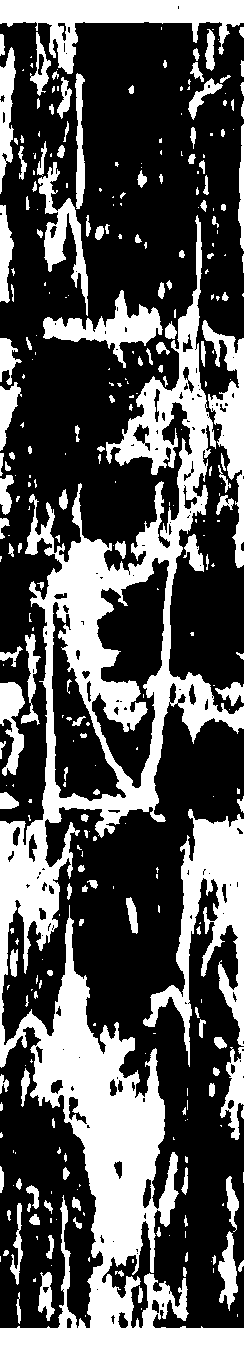
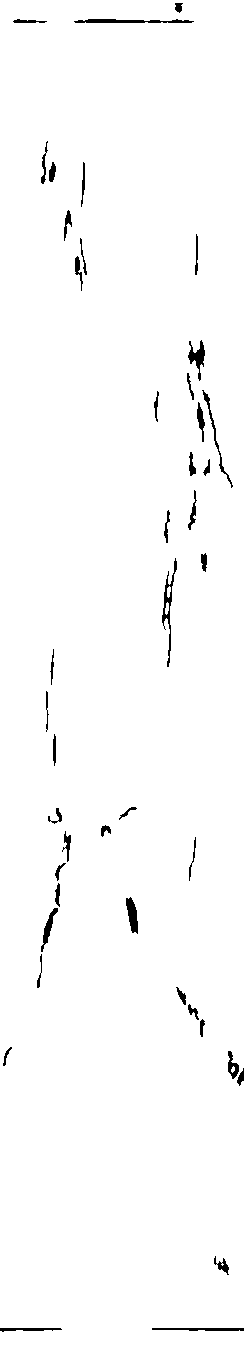
加入Frangi线状 同时加入形态学闭运算，按暗度和线状度选类

diff --git a/问题1代码/main.py b/问题1代码/main.py
@@ -5,13 +5,14 @@
 运行环境：
     conda activate huawei_c1
 
-主流程：
-    读取附件1图像
-    -> 中值滤波
-    -> 小波分解与去噪
-    -> K-means 像素聚类
-    -> 选择暗色线状类作为裂隙候选
-    -> 输出二值掩膜
+流程：
+    1. 中值滤波
+    2. 小波分解去噪
+    3. 计算 Frangi 暗线响应
+    4. 用前3张图拟合 K-means 模型
+    5. 在所有图上预测并选择裂隙类
+    6. 形态学闭运算 + 删除小连通域
+    7. 输出二值图
 """
 
 from pathlib import Path
@@ -19,29 +20,26 @@ from pathlib import Path
 import cv2
 import numpy as np
 import pywt
+from skimage import measure
+from skimage.filters import frangi
 from sklearn.cluster import KMeans
 from sklearn.preprocessing import StandardScaler
 
-
-# 路径配置：main.py 位于 D:/华为杯数学建模/问题1代码/
 CODE_DIR = Path(__file__).resolve().parent
 BASE_DIR = CODE_DIR.parent
-ATTACH1_DIR = (
-    BASE_DIR
-    / "2025年研究生数学建模竞赛赛题"
-    / "C题"
-    / "C题"
-    / "附件1"
-)
+ATTACH1_DIR = BASE_DIR / "2025年研究生数学建模竞赛赛题" / "C题" / "C题" / "附件1"
 OUTPUT_DIR = CODE_DIR / "output"
 OUTPUT_DIR.mkdir(exist_ok=True)
 
-# K-means 聚类数：通常取 3~5，便于区分暗裂隙、岩石背景、亮伪影等
-N_CLUSTERS = 3
+N_CLUSTERS = 4
+MIN_COMPONENT_AREA = 50
+MAX_FIT_SAMPLES = 200000
+MIN_LINE_LENGTH = 40
+MAX_LINE_WIDTH = 18
+CLOSE_KERNEL_SIZE = (3, 3)
 
 
-def read_gray(image_path: Path) -> np.ndarray:
-    """读取单通道灰度图像。"""
+def read_gray(image_path):
     data = np.fromfile(str(image_path), dtype=np.uint8)
     image = cv2.imdecode(data, cv2.IMREAD_GRAYSCALE)
     if image is None:
@@ -49,8 +47,7 @@ def read_gray(image_path: Path) -> np.ndarray:
     return image
 
 
-def write_image(image_path: Path, image: np.ndarray) -> None:
-    # Support Chinese path on Windows.
+def write_image(image_path, image):
     suffix = image_path.suffix or ".png"
     success, buffer = cv2.imencode(suffix, image)
     if not success:
@@ -58,39 +55,19 @@ def write_image(image_path: Path, image: np.ndarray) -> None:
     buffer.tofile(str(image_path))
 
 
-def median_filter(image: np.ndarray, kernel_size: int = 3) -> np.ndarray:
-    """中值滤波：去除孤立点噪声，同时尽量保留线状结构。"""
+def median_filter(image, kernel_size=3):
     kernel_size = int(kernel_size)
     if kernel_size % 2 == 0:
         kernel_size += 1
     return cv2.medianBlur(image, kernel_size)
 
 
-def wavelet_denoise(
-    image: np.ndarray,
-    wavelet: str = "db2",
-    level: int = 2,
-    mode: str = "soft",
-) -> np.ndarray:
-    """
-    小波分解去噪：对高频细节系数做软阈值收缩，压制纹理噪声。
-
-    Parameters
-    ----------
-    image : 二维灰度图
-    wavelet : 小波基
-    level : 分解层数
-    mode : 阈值模式，'soft' 或 'hard'
-    """
+def wavelet_denoise(image, wavelet="db2", level=2, mode="soft"):
     coeffs = pywt.wavedec2(image.astype(np.float32), wavelet, level=level)
     approx = coeffs[0]
-
-    # 用最细尺度的高频对角子带估计噪声标准差
     finest_hh = coeffs[-1][2]
     sigma = np.median(np.abs(finest_hh - np.median(finest_hh))) / 0.6745
     sigma = max(sigma, 1e-6)
-
-    # 通用阈值
     threshold = sigma * np.sqrt(2 * np.log(max(image.size, 2)))
 
     new_coeffs = [approx]
@@ -104,87 +81,140 @@ def wavelet_denoise(
         )
 
     reconstructed = pywt.waverec2(new_coeffs, wavelet)
-    # 逆变换尺寸可能与原图不同，裁剪回原始尺寸
     return reconstructed[: image.shape[0], : image.shape[1]]
 
 
-def build_pixel_features(image: np.ndarray) -> np.ndarray:
-    """
-    为每个像素构造聚类特征：
-    [灰度值, 局部均值, 局部方差]
-    """
+def frangi_response(image):
+    response = frangi(image, sigmas=range(1, 6, 2), black_ridges=True)
+    min_val = float(response.min())
+    max_val = float(response.max())
+    if max_val - min_val < 1e-6:
+        return np.zeros_like(response, dtype=np.float32)
+    return ((response - min_val) / (max_val - min_val)).astype(np.float32)
+
+
+def preprocess(image):
+    image_median = median_filter(image, kernel_size=3)
+    image_wavelet = wavelet_denoise(image_median, wavelet="db2", level=2)
+    image_preprocessed = np.clip(image_wavelet, 0, 255).astype(np.uint8)
+    image_frangi = frangi_response(image_preprocessed)
+    return image_preprocessed, image_frangi
+
+
+def build_pixel_features(image, frangi_norm):
     image_f = image.astype(np.float32)
     local_mean = cv2.blur(image_f, (5, 5))
     local_sq_mean = cv2.blur(image_f * image_f, (5, 5))
     local_var = local_sq_mean - local_mean * local_mean
-
-    features = np.stack(
-        [image_f, local_mean, local_var],
-        axis=-1,
-    ).reshape(-1, 3)
+    features = np.stack([image_f, local_mean, local_var, frangi_norm], axis=-1).reshape(-1, 4)
     return features
 
 
-def kmeans_segment(image: np.ndarray, n_clusters: int = N_CLUSTERS):
-    """
-    对预处理后的图像做 K-means 聚类，并返回裂隙候选掩膜。
+def postprocess_mask(mask):
+    mask = (mask > 0).astype(np.uint8)
+    kernel = cv2.getStructuringElement(cv2.MORPH_ELLIPSE, CLOSE_KERNEL_SIZE)
+    mask = cv2.morphologyEx(mask, cv2.MORPH_CLOSE, kernel)
 
-    选择平均灰度最低的类作为“裂隙候选”，因为裂隙在钻孔图中通常偏暗。
-    """
-    features = build_pixel_features(image)
-    scaler = StandardScaler()
-    features_scaled = scaler.fit_transform(features)
+    num_labels, labels, stats, _ = cv2.connectedComponentsWithStats(mask, 8)
+    cleaned = np.zeros_like(mask)
+    for i in range(1, num_labels):
+        if stats[i, cv2.CC_STAT_AREA] >= MIN_COMPONENT_AREA:
+            cleaned[labels == i] = 1
+    return cleaned
 
-    kmeans = KMeans(n_clusters=n_clusters, random_state=42, n_init=10)
-    labels = kmeans.fit_predict(features_scaled)
+
+def line_score(mask):
+    cleaned = postprocess_mask(mask)
+    if cleaned.sum() == 0:
+        return 0.0
+    label_image = measure.label(cleaned, connectivity=2)
+    props = measure.regionprops(label_image)
+    if not props:
+        return 0.0
+    long_pixels = 0
+    for prop in props:
+        if prop.axis_major_length >= MIN_LINE_LENGTH and prop.axis_minor_length <= MAX_LINE_WIDTH:
+            long_pixels += prop.area
+    return long_pixels / max(cleaned.sum(), 1)
+
+
+def cluster_score(image, frangi_norm, mask):
+    if mask.sum() == 0:
+        return -1e9
+    darkness = (255.0 - float(image[mask > 0].mean())) / 255.0
+    frangi_mean = float(frangi_norm[mask > 0].mean())
+    line = line_score(mask)
+    return darkness + 2.0 * frangi_mean + 1.0 * line
+
+
+def fit_kmeans(train_preprocessed, train_frangi, n_clusters=N_CLUSTERS):
+    all_features = []
+    for image, frangi_norm in zip(train_preprocessed, train_frangi):
+        all_features.append(build_pixel_features(image, frangi_norm))
+    features = np.vstack(all_features)
+
+    rng = np.random.default_rng(42)
+    if features.shape[0] > MAX_FIT_SAMPLES:
+        index = rng.choice(features.shape[0], size=MAX_FIT_SAMPLES, replace=False)
+        features = features[index]
+
+    scaler = StandardScaler().fit(features)
+    features_scaled = scaler.transform(features)
+    kmeans = KMeans(n_clusters=n_clusters, random_state=42, n_init=10, max_iter=200)
+    kmeans.fit(features_scaled)
+    return scaler, kmeans
+
+
+def select_fracture_cluster(scaler, kmeans, train_preprocessed, train_frangi, n_clusters=N_CLUSTERS):
+    scores = np.zeros(n_clusters, dtype=np.float64)
+    counts = np.zeros(n_clusters, dtype=np.int32)
+    for image, frangi_norm in zip(train_preprocessed, train_frangi):
+        features = build_pixel_features(image, frangi_norm)
+        labels = kmeans.predict(scaler.transform(features))
+        label_image = labels.reshape(image.shape)
+        for k in range(n_clusters):
+            mask = (label_image == k).astype(np.uint8)
+            if mask.sum() == 0:
+                continue
+            scores[k] += cluster_score(image, frangi_norm, mask)
+            counts[k] += 1
+    valid = counts > 0
+    scores[valid] /= counts[valid]
+    return int(np.argmax(scores))
+
+
+def segment_image(image, frangi_norm, scaler, kmeans, fracture_cluster):
+    features = build_pixel_features(image, frangi_norm)
+    labels = kmeans.predict(scaler.transform(features))
     label_image = labels.reshape(image.shape)
-
-    # 计算每个聚类的平均灰度，暗类作为裂隙候选
-    cluster_mean_gray = []
-    for k in range(n_clusters):
-        cluster_pixels = image[label_image == k]
-        if cluster_pixels.size > 0:
-            cluster_mean_gray.append(float(cluster_pixels.mean()))
-        else:
-            cluster_mean_gray.append(255.0)
-
-    dark_cluster = int(np.argmin(cluster_mean_gray))
-    mask = (label_image == dark_cluster).astype(np.uint8)
-    return mask, label_image, kmeans
+    mask = (label_image == fracture_cluster).astype(np.uint8)
+    mask = postprocess_mask(mask)
+    return mask
 
 
-def process_one(image_path: Path) -> Path:
-    """处理单张附件1图像，返回输出文件路径。"""
-    image = read_gray(image_path)
-
-    # 1) 中值滤波
-    image_median = median_filter(image, kernel_size=3)
-
-    # 2) 小波分解去噪
-    image_wavelet = wavelet_denoise(image_median, wavelet="db2", level=2)
-    image_preprocessed = np.clip(image_wavelet, 0, 255).astype(np.uint8)
-
-    # 3) K-means 聚类，选出暗色候选
-    candidate_mask, _, _ = kmeans_segment(image_preprocessed)
-
-    # 4) 输出二值图：裂隙像素=0（黑），背景像素=255（白）
-    binary_result = np.where(candidate_mask > 0, 0, 255).astype(np.uint8)
-    output_path = OUTPUT_DIR / f"{image_path.stem}_mask.png"
-    write_image(output_path, binary_result)
-    return output_path
-
-
-def main() -> None:
-    image_paths = sorted(ATTACH1_DIR.glob("*.jpg"))
+def main():
+    image_paths = sorted(ATTACH1_DIR.glob("*.jpg"), key=lambda p: int(p.stem.split("-")[1]))
     if not image_paths:
-        raise FileNotFoundError(f"未找到附件1图像，请检查路径: {ATTACH1_DIR}")
+        raise FileNotFoundError(f"未找到附件1图像: {ATTACH1_DIR}")
 
-    print(f"发现 {len(image_paths)} 张附件1图像")
-    for image_path in image_paths:
-        output_path = process_one(image_path)
-        print(f"处理完成: {image_path.name} -> {output_path.name}")
+    print(f"发现 {len(image_paths)} 张附件1图像，逐张直接进行 K-means 聚类")
 
-    print(f"全部结果已保存到: {OUTPUT_DIR}")
+    for path in image_paths:
+        image, frangi_norm = preprocess(read_gray(path))
+
+        # 每一张图单独拟合 K-means，不做训练/验证拆分
+        scaler, kmeans = fit_kmeans([image], [frangi_norm])
+        fracture_cluster = select_fracture_cluster(
+            scaler, kmeans, [image], [frangi_norm]
+        )
+        mask = segment_image(image, frangi_norm, scaler, kmeans, fracture_cluster)
+
+        result = np.where(mask > 0, 0, 255).astype(np.uint8)
+        output_path = OUTPUT_DIR / f"{path.stem}_mask.png"
+        write_image(output_path, result)
+        print(f"处理完成: {path.name} -> 聚类编号 {fracture_cluster} -> {output_path.name}")
+
+    print(f"结果已保存到: {OUTPUT_DIR}")
 
 
 if __name__ == "__main__":
